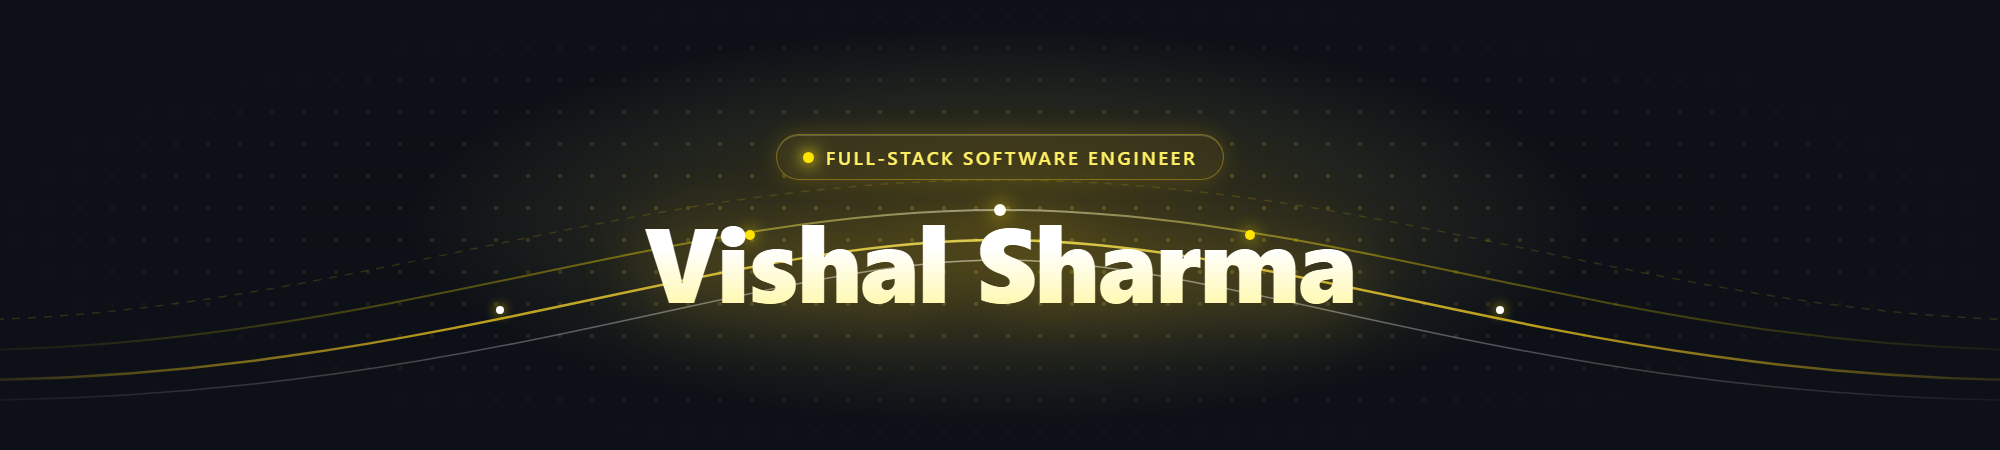
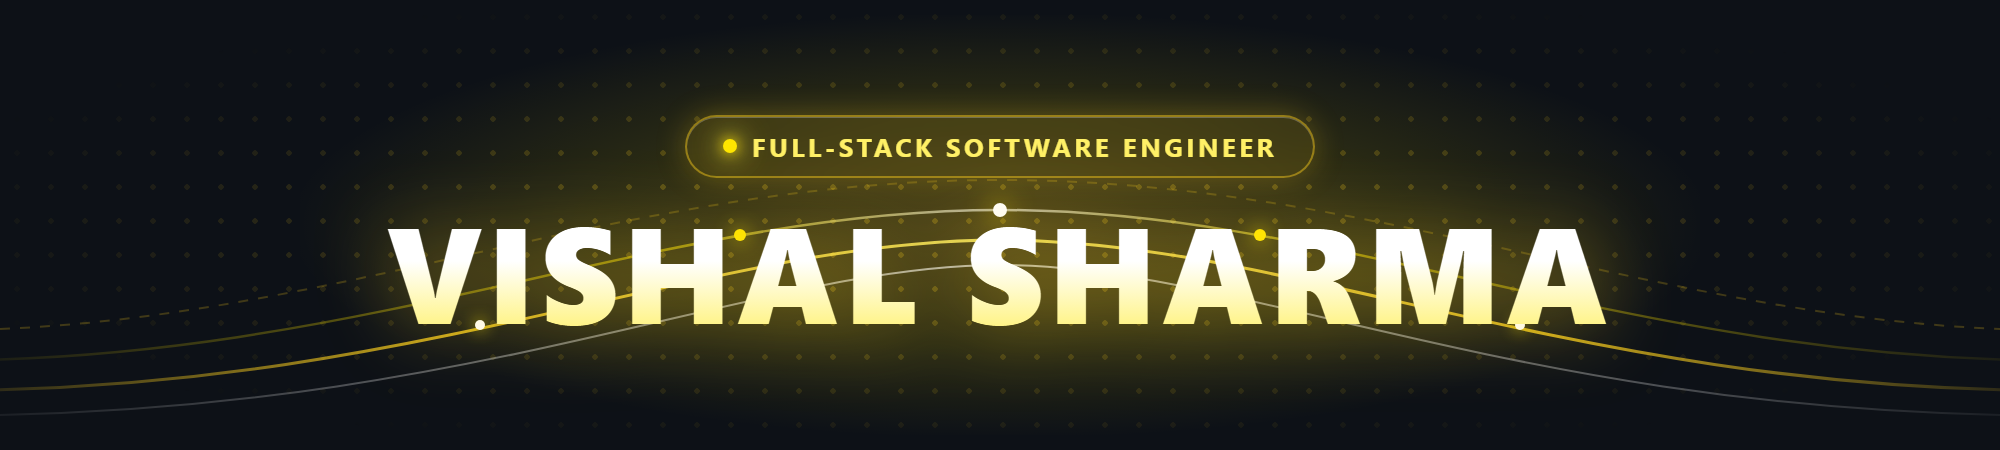
Upgrade ProfileBanner to Bold ALL CAPS masthead with prominent role badge

diff --git a/README.md b/README.md
@@ -1,5 +1,5 @@
 <div align="center">
-  <img src="https://raw.githubusercontent.com/tbhvishal/tbhvishal/main/ProfileBanner.png?v=2" alt="Vishal's Profile Banner" width="100%" />
+  <img src="https://raw.githubusercontent.com/tbhvishal/tbhvishal/main/ProfileBanner.png?v=3" alt="Vishal's Profile Banner" width="100%" />
 </div>
 
 <h1 align="center">Hey There, I'm Vishal Sharma <img src="https://raw.githubusercontent.com/Tarikul-Islam-Anik/Animated-Fluent-Emojis/master/Emojis/Hand%20gestures/Waving%20Hand.png" width="38" height="38" align="absmiddle" alt="" /></h1>
